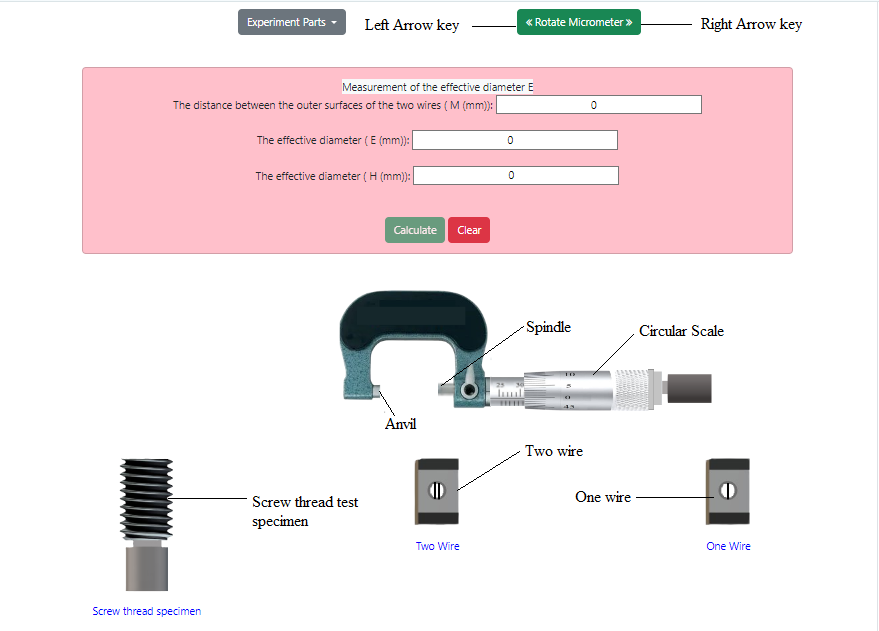
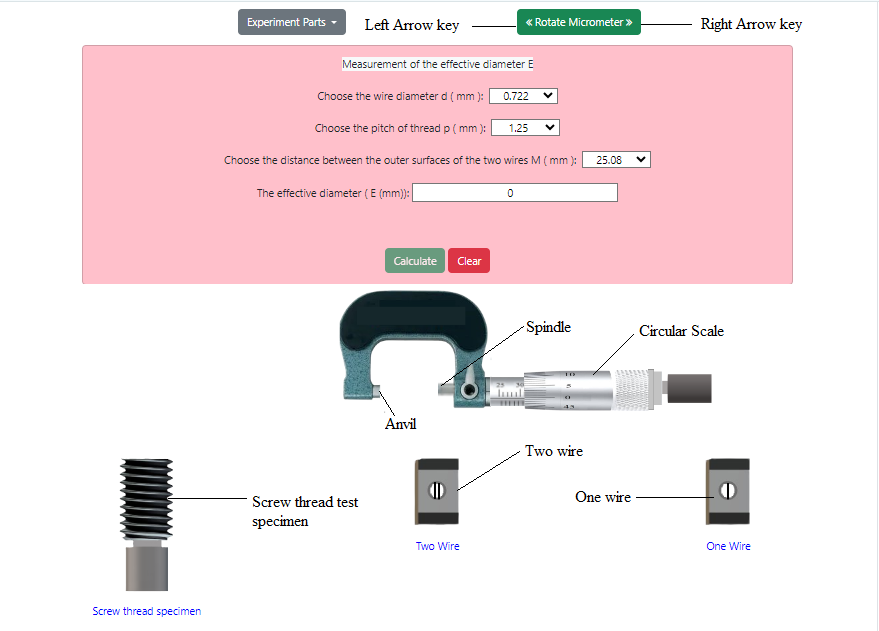
final commit2

Changed region(s): [[0.0922, 0.0602, 0.9215, 0.4517]]

diff --git a/experiment/simulation/index.html b/experiment/simulation/index.html
@@ -107,10 +107,10 @@
 					  
 					  <li>Click on the one wire and two wire to place them on the measuring faces of micrometer spindle and anvil.</li><br/>
 						
-					<li>Follow steps 3-4 to measure the effective diameter ( E (mm)) and the value of H ( height of the threads in mm ). </li><br/>
+					<li>Follow steps 4-5 to measure the effective diameter ( E (mm)) and the value of H ( height of the threads in mm ). </li><br/>
 					
 					<li>Click on the screw thread specimen to place it back to its previous position. Click on 'Clear' button.
-					 Follow steps 6-9 by selecting 0.866 mm as the value of wire diameter d, 1.5 mm as the pitch of thread p and 26.58 mm as the distance between the outer surfaces of the two wires M from the
+					 Follow steps 7-9 by selecting 0.866 mm as the value of wire diameter d, 1.5 mm as the pitch of thread p and 26.58 mm as the distance between the outer surfaces of the two wires M from the
 					  respective dropdowns. Click on 'Clear' button.</li><br/> 
 
 					 
@@ -165,7 +165,7 @@
 			<div class="card" style=" width:100%;background-color:pink" > 
 			
 			<div class="card-body">
-			<span class="card-title bg-light"> Measurement of the effective diameter E</span><br/>
+			<span class="card-title bg-light"> Measurement of the effective diameter E</span><br/><br/>
 
 			<span class="card-text" >Choose the wire diameter d ( mm ):&nbsp;
 			<select class="card-text" id="d" style="width:10%;text-align:center">

diff --git a/experiment/procedure.md b/experiment/procedure.md
@@ -8,8 +8,7 @@ Figure 1. Gear tooth vernier caliper with spur gear
 
 
 1. First click on 'Two-wire' under 'Experiment Parts'. Select 0.722 mm as the value of wire diameter d, 
-1.25 mm as the pitch of thread p and 25.08 mm as the distance between the outer surfaces of the two wires M from the
-respective dropdowns.
+1.25 mm as the pitch of thread p and 25.08 mm as the distance between the outer surfaces of the two wires M from the respective dropdowns.
 
 <div align="center">
 <img class="img-fluid"  src="./images/simu.png" alt=""><br> 
@@ -34,8 +33,7 @@ Follow steps 1-4 by selecting 0.866 mm as the value of wire diameter d, 1.5 mm a
 
 8. Click on the one wire and two wire to place them on the measuring faces of micrometer spindle and anvil.
 
-9. Follow steps 3-4 to measure the effective diameter ( E (mm)) and the value of H ( height of the threads in mm ).
+9. Follow steps 4-5 to measure the effective diameter ( E (mm)) and the value of H ( height of the threads in mm ).
 
 10. Click on the screw thread specimen to place it back to its previous position. Click on 'Clear' button.
-Follow steps 6-9 by selecting 0.866 mm as the value of wire diameter d, 1.5 mm as the pitch of thread p and 26.58 mm as the distance between the outer surfaces of the two wires M from the
-respective dropdowns. Click on 'Clear' button.
+Follow steps 7-9 by selecting 0.866 mm as the value of wire diameter d, 1.5 mm as the pitch of thread p and 26.58 mm as the distance between the outer surfaces of the two wires M from the respective dropdowns. Click on 'Clear' button.
